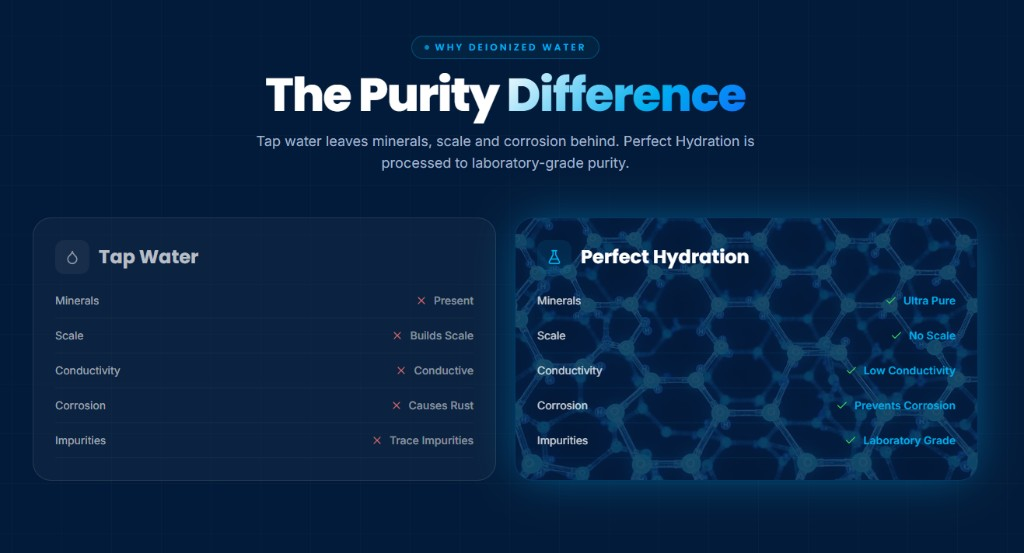
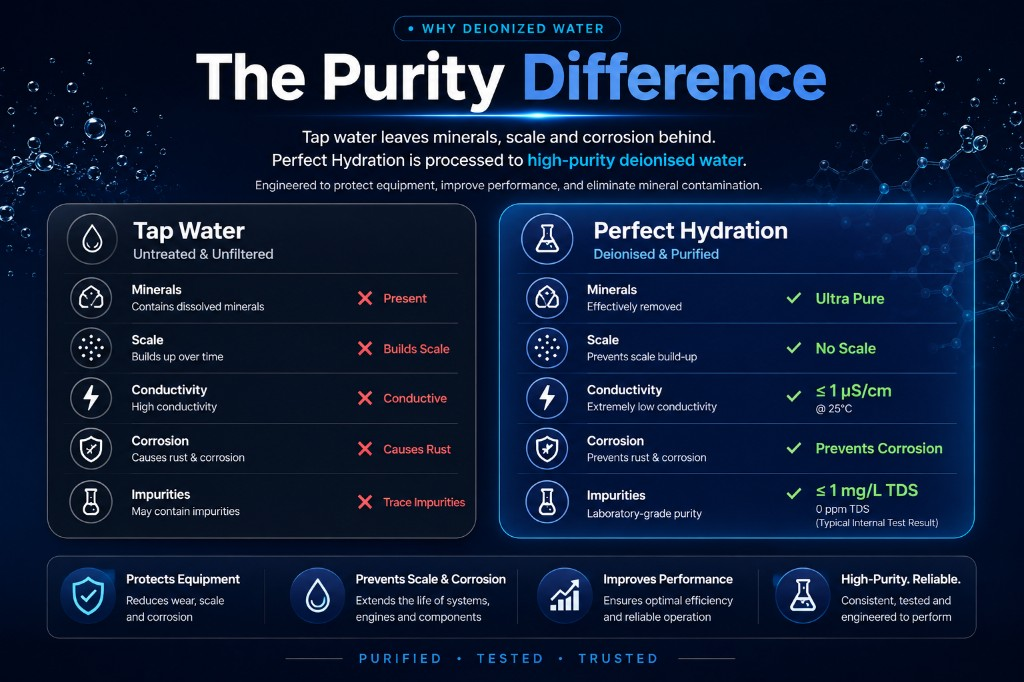
Update purity difference infographic with latest spec-focused design.
Replace the comparison asset and align alt text, description, and sr-only table values with the new conductivity and TDS specifications.

diff --git a/lib/config/comparison.ts b/lib/config/comparison.ts
@@ -4,14 +4,14 @@ export const comparisonSection = {
   titleLead: "The Purity",
   titleAccent: "Difference",
   description:
-    "Tap water leaves minerals, scale and corrosion behind. Perfect Hydration is processed to laboratory-grade purity.",
+    "Tap water leaves minerals, scale and corrosion behind. Perfect Hydration is processed to high-purity deionised water — engineered to protect equipment, improve performance, and eliminate mineral contamination.",
   tapWaterLabel: "Tap Water",
   perfectHydrationLabel: "Perfect Hydration",
   infographic: {
     src: "/images/purity-difference.png",
-    alt: "The Purity Difference — Tap water vs Perfect Hydration comparison showing minerals, scale, conductivity, corrosion, and impurities",
+    alt: "The Purity Difference — Tap water vs Perfect Hydration deionised water comparison with conductivity ≤1 µS/cm, TDS ≤1 mg/L, and equipment protection benefits",
     width: 1024,
-    height: 553,
+    height: 682,
   },
 } as const;
 
@@ -32,7 +32,7 @@ export const comparisonFeatures: ComparisonFeature[] = [
     id: "conductivity",
     label: "Conductivity",
     tapWater: "Conductive",
-    perfectHydration: "Low Conductivity",
+    perfectHydration: "≤1 µS/cm @ 25°C",
   },
   {
     id: "corrosion",
@@ -44,6 +44,6 @@ export const comparisonFeatures: ComparisonFeature[] = [
     id: "impurities",
     label: "Impurities",
     tapWater: "Trace Impurities",
-    perfectHydration: "Laboratory Grade",
+    perfectHydration: "≤1 mg/L TDS (0 ppm typical internal test)",
   },
 ];
